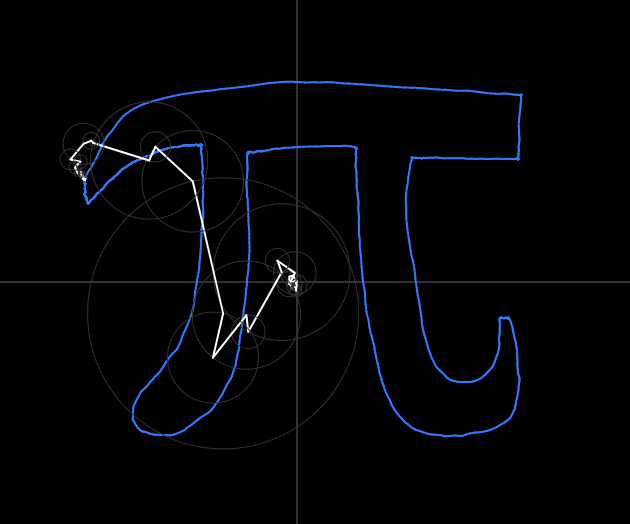
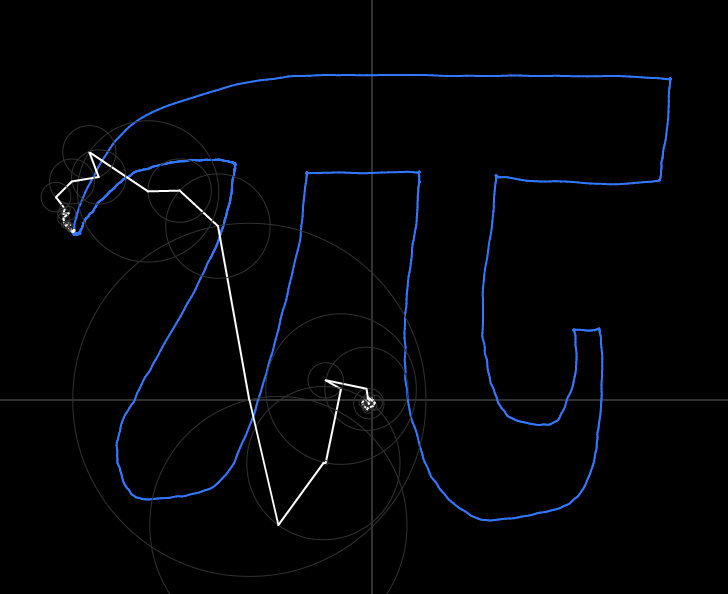
new screenshot

diff --git a/README.md b/README.md
@@ -3,6 +3,8 @@ This program allows the user to draw any curve. It then breaks the curve into ro
 
 ![image](https://github.com/Anthony-Gambale/Fourier-Transform-Sketch/blob/main/screenshot1.png)
 
+![image](https://github.com/Anthony-Gambale/Fourier-Transform-Sketch/blob/main/screenshot2.png)
+
 ### Install and Run
 Simply download all files in the repository, and open index.html in any browser. Then draw any closed curve you like. This program does not need to be run on a server to function properly.
 
